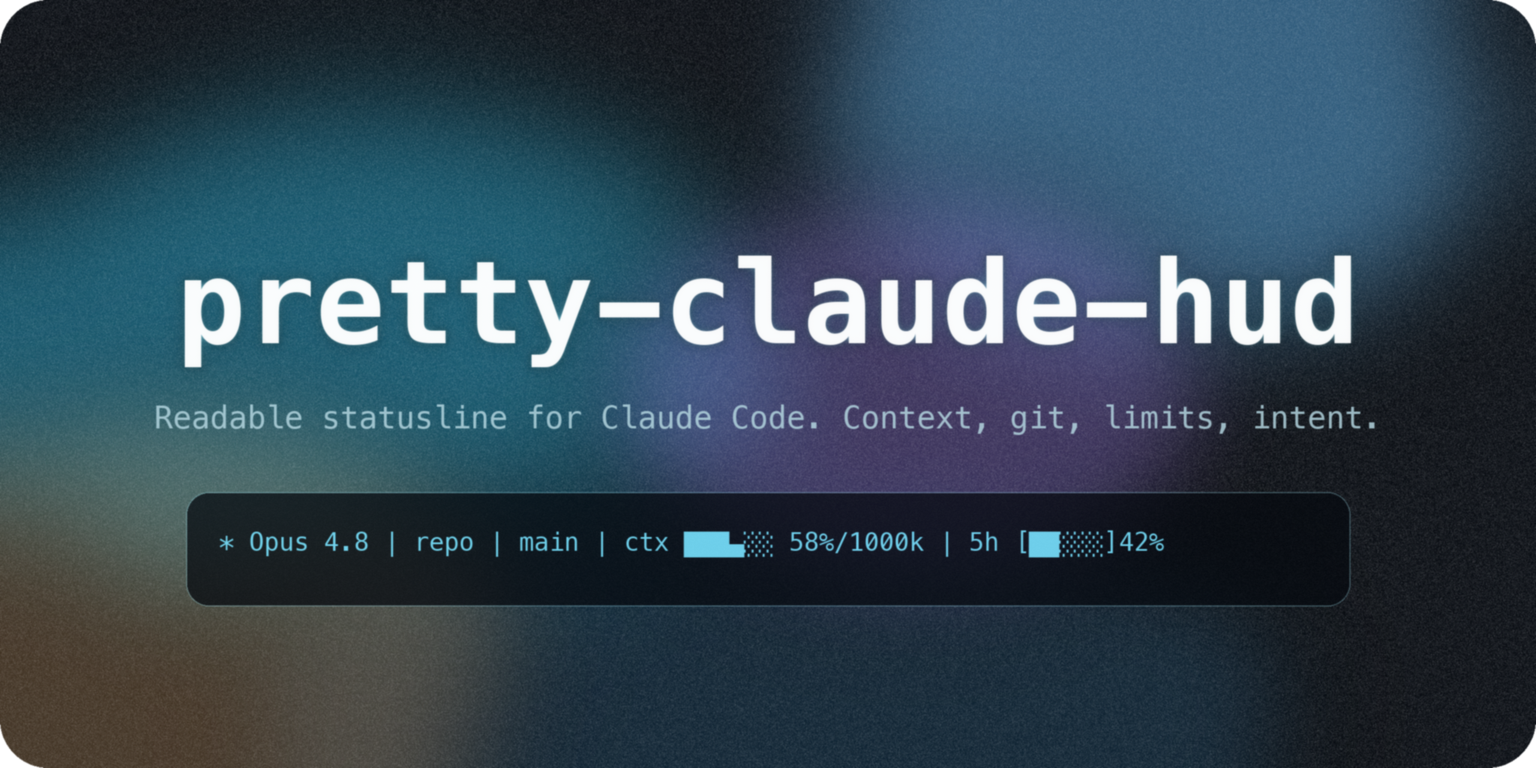
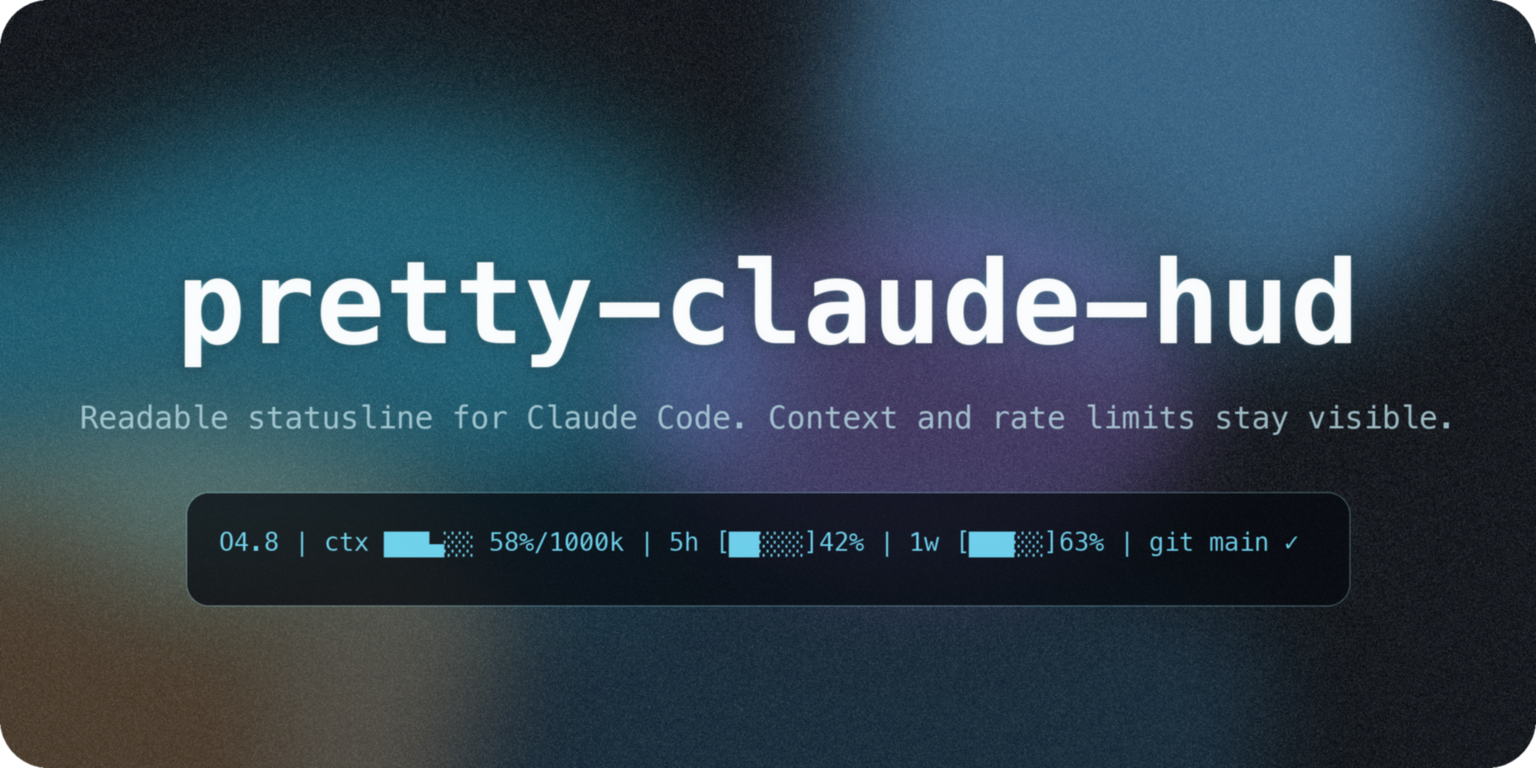
fix(hud): prioritize usage gauges

Changed region(s): [[0.125, 0.6875, 0.8438, 0.75], [0.0312, 0.5312, 0.9375, 0.5625]]

diff --git a/generate_cover.py b/generate_cover.py
@@ -59,8 +59,8 @@ font_prompt = load_font(menlo, 42)
 
 draw = ImageDraw.Draw(canvas)
 title = "pretty-claude-hud"
-subtitle = "Readable statusline for Claude Code. Context, git, limits, intent."
-prompt = "* Opus 4.8 | repo | main | ctx ███▄░░ 58%/1000k | 5h [██░░░]42%"
+subtitle = "Readable statusline for Claude Code. Context and rate limits stay visible."
+prompt = "O4.8 | ctx ███▄░░ 58%/1000k | 5h [██░░░]42% | 1w [███░░]63% | git main ✓"
 
 title_x, title_y = centered_text_position(draw, title, font_title, 426)
 subtitle_x, subtitle_y = centered_text_position(draw, subtitle, font_subtitle, 674)

diff --git a/README.md b/README.md
@@ -10,9 +10,9 @@ A Claude Code statusline that makes the working state readable without turning t
 
 ## What It Shows
 
-- **Model and project** — Active model and current folder, visible without scanning the conversation pane.
+- **Short model tag** — `Opus 4.8 (1M context)` becomes `O4.8`, leaving room for the gauges.
 - **Context meter** — Compact token usage bar with the current context window size.
-- **Git awareness** — Branch, changed-file count, and upstream sync state when the current folder is a repo.
+- **Compact worktree tail** — Branch, dirty count, and upstream arrows stay at the end instead of crowding the gauges.
 - **Rate-limit meters** — 5-hour and weekly usage bars when Claude Code OAuth usage data is available.
 - **Last-message recall** — A subtle second line with your latest prompt, trimmed to match the HUD width.
 - **Terminal-native shape** — Built for Nerd Fonts, Powerlevel10k-style prompts, and dark terminal themes.
@@ -23,7 +23,7 @@ A Claude Code statusline that makes the working state readable without turning t
 
 **Antithesis:** a pretty HUD can become noise when it chases badges, gradients, and labels that do not help the next action.
 
-**Synthesis:** this repo keeps one dense statusline plus one intent line. The visual treatment is there to rank information, not to decorate it.
+**Synthesis:** this repo keeps one dense statusline plus one intent line. Context and rate-limit gauges get the prime space; worktree state becomes a short tail.
 
 ## Quick Start
 
